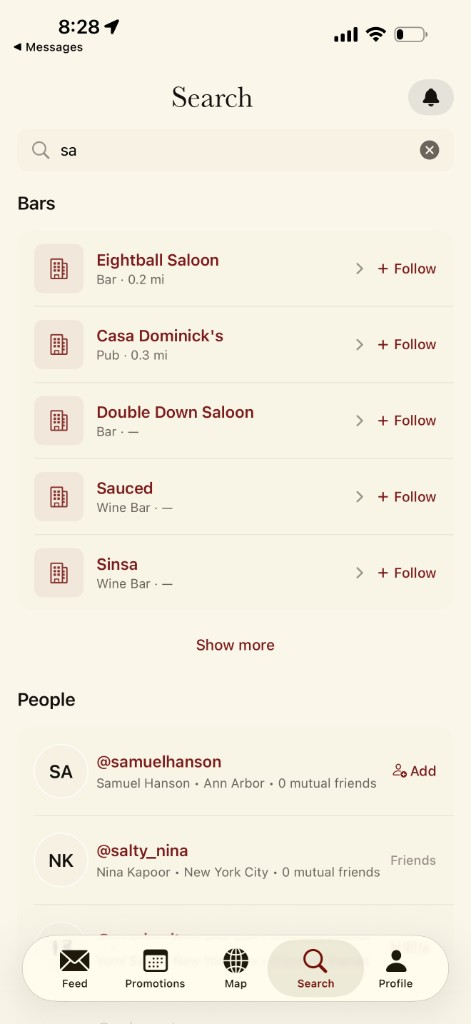
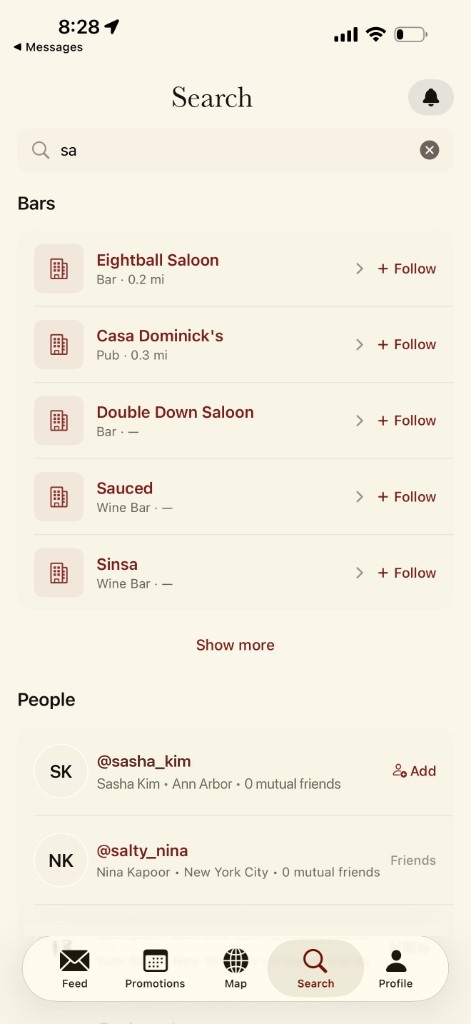
Replace the real identity in the Search screenshot with a demo account
public/screens/search.jpg showed a founder's legal name and handle in the
People results, and the alt text spelled both out again for screen readers and
search engines.

The replacement still starts with 'sa' so it remains a plausible result for the
'sa' query the screenshot is demonstrating. Font sizes and ink colors were
calibrated against the untouched row below it, and the text was rendered at 4x
and downscaled to match the softness of the original device capture.

Also erases the sliver of a third result visible above the tab bar. The other
five screenshots carry no full names.

This is a stopgap - the checklist still calls for reshooting all six from the
current build once the onboarding and map changes ship.

Changed region(s): [[0.2081, 0.7188, 0.8025, 0.7812], [0.1189, 0.75, 0.1486, 0.7812]]

diff --git a/app/page.tsx b/app/page.tsx
@@ -233,7 +233,7 @@ const features: FeatureBlock[] = [
     rotate: 6,
     screenshot: {
       src: "search.jpg",
-      alt: "Sip Search tab with the query 'sa': bar results including Eightball Saloon and Casa Dominick's plus people results @samuelhanson and @salty_nina with Friend / Add actions.",
+      alt: "Sip Search tab with the query 'sa': bar results including Eightball Saloon and Casa Dominick's plus people results with mutual-friend counts and Friend / Add actions.",
     },
   },
   {

diff --git a/lib/app-store.ts b/lib/app-store.ts
@@ -1,7 +1,7 @@
 /**
  * Live App Store listing for the iOS app.
  *
- * Numeric id is the App Store `trackId` for `name.SamuelHanson.Sip`. The
- * `/us/` segment is omitted so Apple redirects to the visitor's own storefront.
+ * The `/us/` segment is omitted so Apple redirects each visitor to their own
+ * storefront rather than 404ing outside the US.
  */
 export const APP_STORE_URL = "https://apps.apple.com/app/id6765730895";
